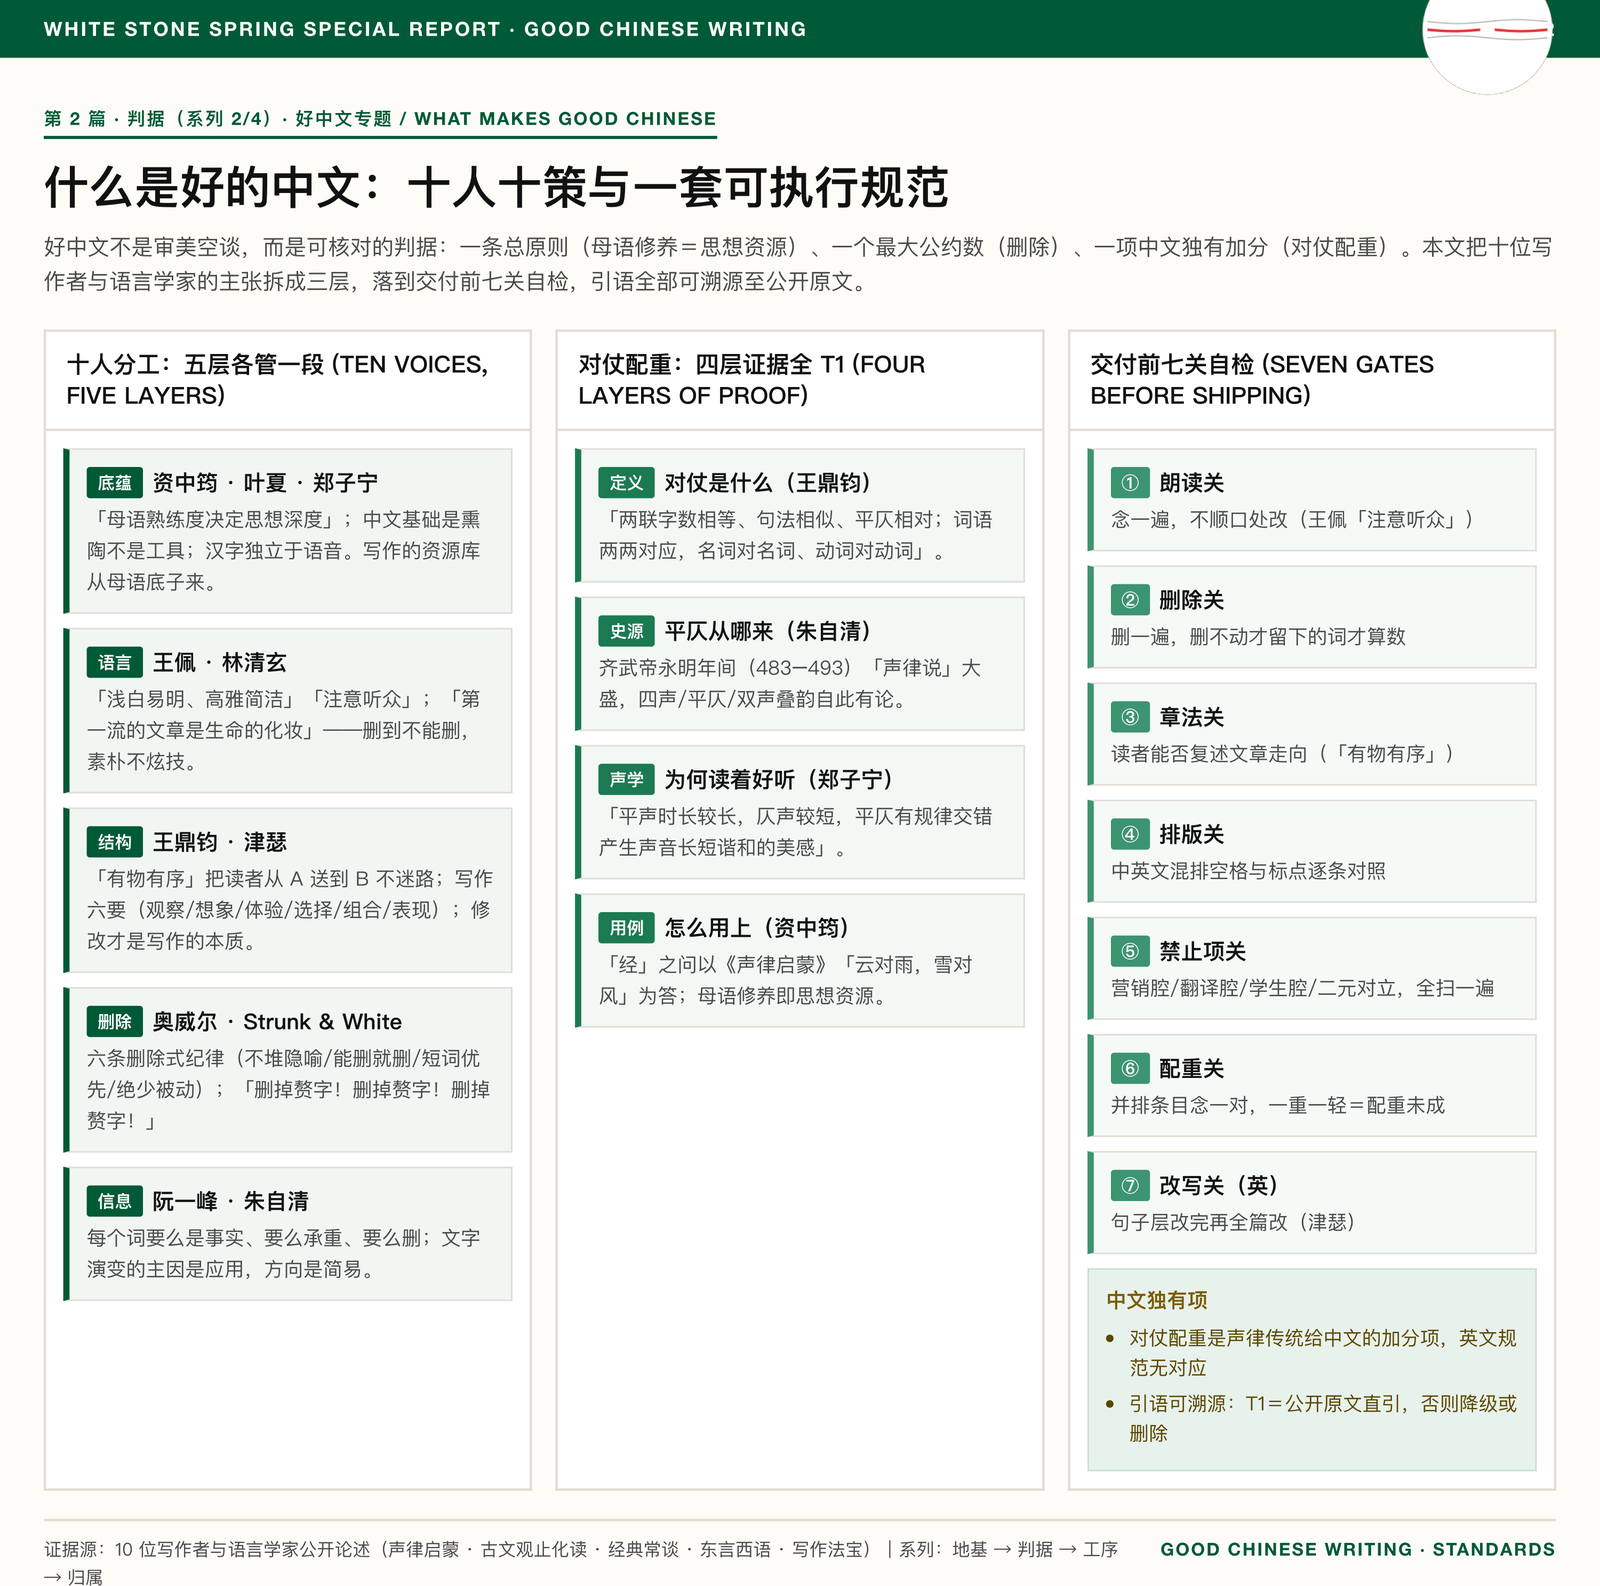
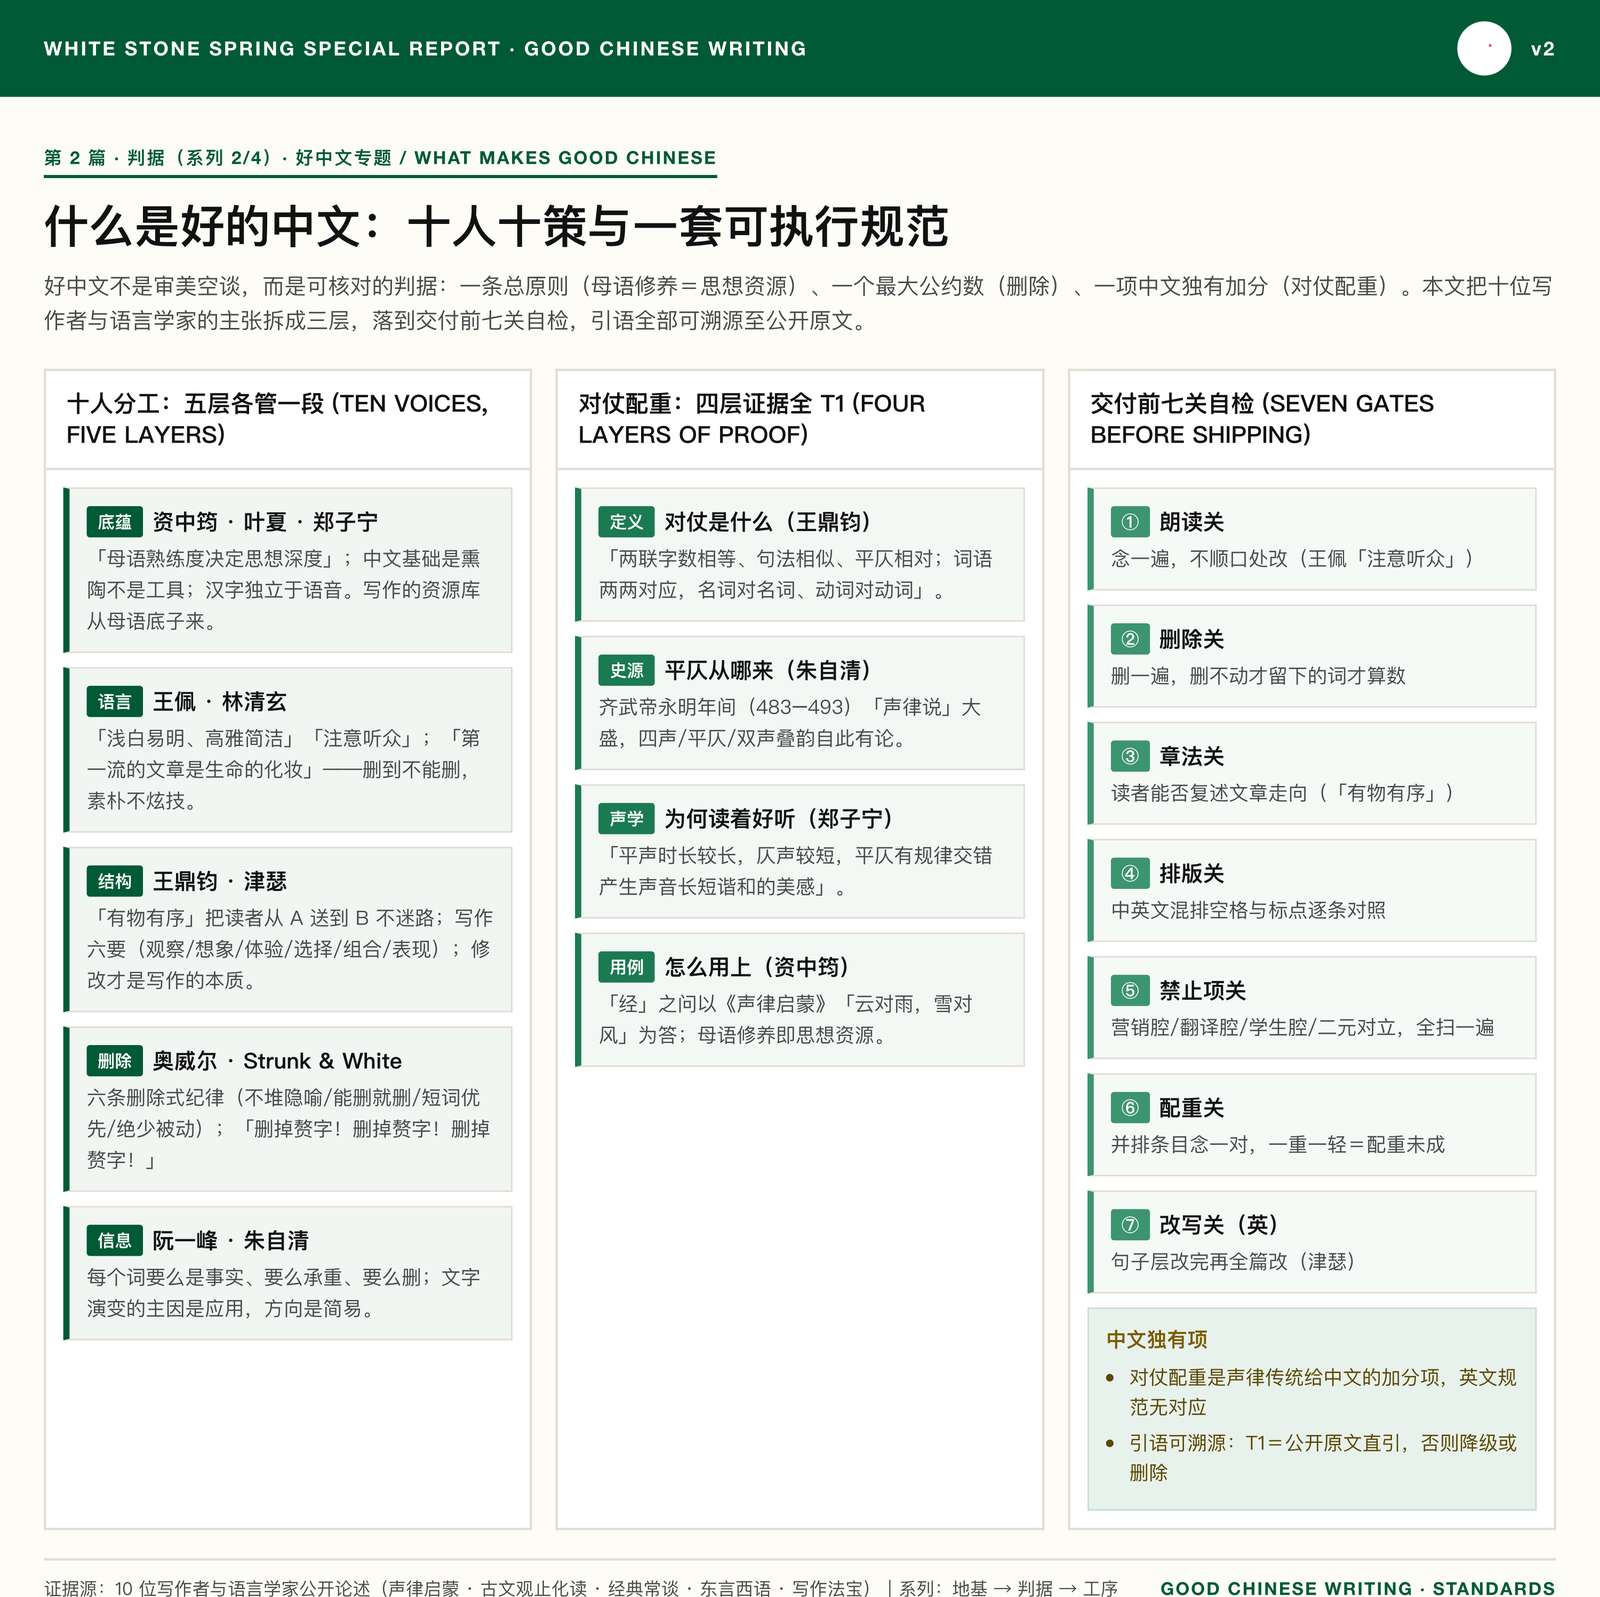
feat(cards): 角押移到 masthead 右侧 · 紧挨版本号 · 白印面 currentColor 墨
- card_template.html: .masthead 右列改为 .mast-meta 容器，[印章 40px] + [version date]
- seal_baishi.svg: 改 v31 反白版（白印面 + currentColor 墨）适配彩色 masthead 底
  上：白印 currentColor 墨会被卡片主色隐形，原版反过来
- 4 张卡片 PNG 重渲归档 X61 + WSS
- build_site.py 重建刷 cache-bust

diff --git a/articles/写作是学习的发生地_意外连接与开发自己的三道工序.html b/articles/写作是学习的发生地_意外连接与开发自己的三道工序.html
@@ -33,10 +33,10 @@
   </div>
 
   <figure class="card-hero">
-  <a href="../assets/写作是学习的发生地_卡片图.html?v=1790584136" target="_blank" title="点击查看交互卡片">
-    <img src="../assets/写作是学习的发生地_卡片图.png?v=1790584136" alt="写作是学习的发生地：意外连接、知识网络，与开发自己的三道工序 卡片图" loading="lazy">
+  <a href="../assets/写作是学习的发生地_卡片图.html?v=1790592315" target="_blank" title="点击查看交互卡片">
+    <img src="../assets/写作是学习的发生地_卡片图.png?v=1790592315" alt="写作是学习的发生地：意外连接、知识网络，与开发自己的三道工序 卡片图" loading="lazy">
   </a>
-  <figcaption>卡片图 · <a href="../assets/写作是学习的发生地_卡片图.html?v=1790584136" target="_blank">点击查看交互版</a></figcaption>
+  <figcaption>卡片图 · <a href="../assets/写作是学习的发生地_卡片图.html?v=1790592315" target="_blank">点击查看交互版</a></figcaption>
 </figure>
   <div class="article-body">
 <blockquote>

diff --git a/articles/翻译如何重塑中文_两千年来五波外来语与现代写作真相.html b/articles/翻译如何重塑中文_两千年来五波外来语与现代写作真相.html
@@ -33,10 +33,10 @@
   </div>
 
   <figure class="card-hero">
-  <a href="../assets/翻译如何重塑中文_卡片图.html?v=1790584135" target="_blank" title="点击查看交互卡片">
-    <img src="../assets/翻译如何重塑中文_卡片图.png?v=1790584135" alt="翻译如何重塑中文：两千年来五波外来语浪潮，与现代写作的文体真相 卡片图" loading="lazy">
+  <a href="../assets/翻译如何重塑中文_卡片图.html?v=1790592314" target="_blank" title="点击查看交互卡片">
+    <img src="../assets/翻译如何重塑中文_卡片图.png?v=1790592314" alt="翻译如何重塑中文：两千年来五波外来语浪潮，与现代写作的文体真相 卡片图" loading="lazy">
   </a>
-  <figcaption>卡片图 · <a href="../assets/翻译如何重塑中文_卡片图.html?v=1790584135" target="_blank">点击查看交互版</a></figcaption>
+  <figcaption>卡片图 · <a href="../assets/翻译如何重塑中文_卡片图.html?v=1790592314" target="_blank">点击查看交互版</a></figcaption>
 </figure>
   <div class="article-body">
 <hr />

diff --git a/articles/什么是好的中文_十人十策与可执行规范.html b/articles/什么是好的中文_十人十策与可执行规范.html
@@ -33,10 +33,10 @@
   </div>
 
   <figure class="card-hero">
-  <a href="../assets/什么是好的中文_卡片图.html?v=1790584135" target="_blank" title="点击查看交互卡片">
-    <img src="../assets/什么是好的中文_卡片图.png?v=1790584135" alt="什么是好的中文：十位写作者的十条路，与一套可执行的规范 卡片图" loading="lazy">
+  <a href="../assets/什么是好的中文_卡片图.html?v=1790592315" target="_blank" title="点击查看交互卡片">
+    <img src="../assets/什么是好的中文_卡片图.png?v=1790592315" alt="什么是好的中文：十位写作者的十条路，与一套可执行的规范 卡片图" loading="lazy">
   </a>
-  <figcaption>卡片图 · <a href="../assets/什么是好的中文_卡片图.html?v=1790584135" target="_blank">点击查看交互版</a></figcaption>
+  <figcaption>卡片图 · <a href="../assets/什么是好的中文_卡片图.html?v=1790592315" target="_blank">点击查看交互版</a></figcaption>
 </figure>
   <div class="article-body">
 <hr />

diff --git a/articles/AI认知判断力内化与外部化双钢人.html b/articles/AI认知判断力内化与外部化双钢人.html
@@ -33,10 +33,10 @@
   </div>
 
   <figure class="card-hero">
-  <a href="../assets/AI认知判断力_卡片图.html?v=1790584136" target="_blank" title="点击查看交互卡片">
-    <img src="../assets/AI认知判断力_卡片图.png?v=1790584136" alt="AI 时代最大的认知分歧：把判断力焊进脑子，还是写进文件？ 卡片图" loading="lazy">
+  <a href="../assets/AI认知判断力_卡片图.html?v=1790592316" target="_blank" title="点击查看交互卡片">
+    <img src="../assets/AI认知判断力_卡片图.png?v=1790592316" alt="AI 时代最大的认知分歧：把判断力焊进脑子，还是写进文件？ 卡片图" loading="lazy">
   </a>
-  <figcaption>卡片图 · <a href="../assets/AI认知判断力_卡片图.html?v=1790584136" target="_blank">点击查看交互版</a></figcaption>
+  <figcaption>卡片图 · <a href="../assets/AI认知判断力_卡片图.html?v=1790592316" target="_blank">点击查看交互版</a></figcaption>
 </figure>
   <div class="article-body">
 <hr />
